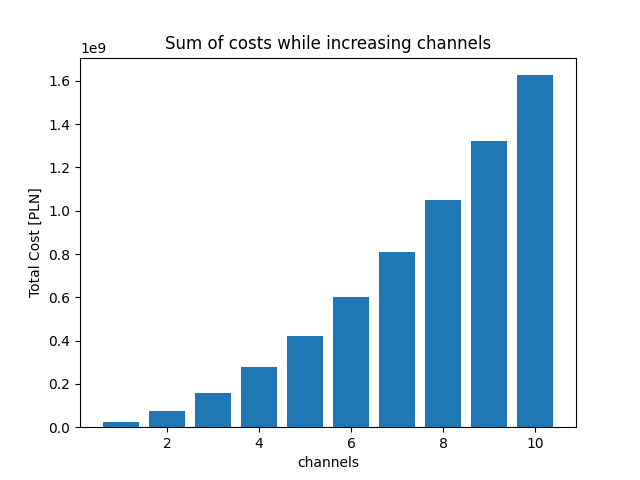
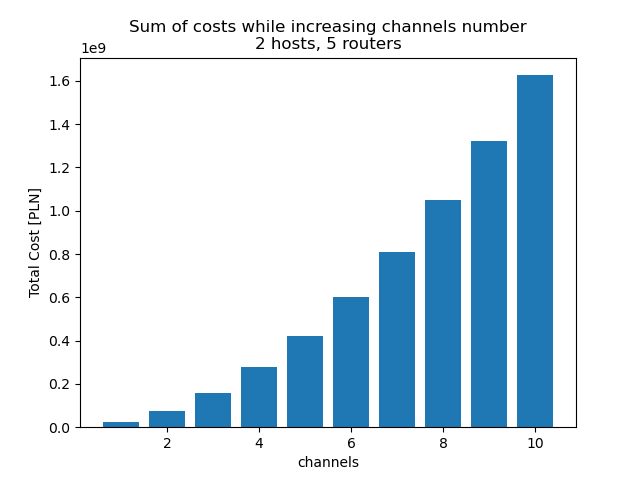
Add better title to plots

diff --git a/plotsGenerator.py b/plotsGenerator.py
@@ -3,7 +3,7 @@ import json
 import matplotlib.pyplot as plt
 
 
-def generate_plot(file, x_axis):
+def generate_plot(file, x_axis, params):
     df = pd.read_csv(file, delimiter='+')
 
     cost_data = pd.json_normalize(df["cost"].apply(json.loads))
@@ -17,12 +17,12 @@ def generate_plot(file, x_axis):
     plt.bar(df[x_axis], df['total_cost'])
     plt.xlabel(x_axis)
     plt.ylabel('Total Cost [PLN]')
-    plt.title('Sum of costs while increasing ' + x_axis)
+    plt.title(f'Sum of costs while increasing {x_axis} number\n{params}')
     plt.savefig('plots/sum_of_cost_from_{}.png'.format(x_axis))
     plt.show()
 
 
 routers_data_file_path = "measurements/changing_routers_no.csv"
 channels_data_file_path = "measurements/changing_channels_no.csv"
-generate_plot(routers_data_file_path, 'routers')
-generate_plot(channels_data_file_path, 'channels')
+generate_plot(routers_data_file_path, 'routers', '2 hosts, 1 channel')
+generate_plot(channels_data_file_path, 'channels', '2 hosts, 5 routers')
